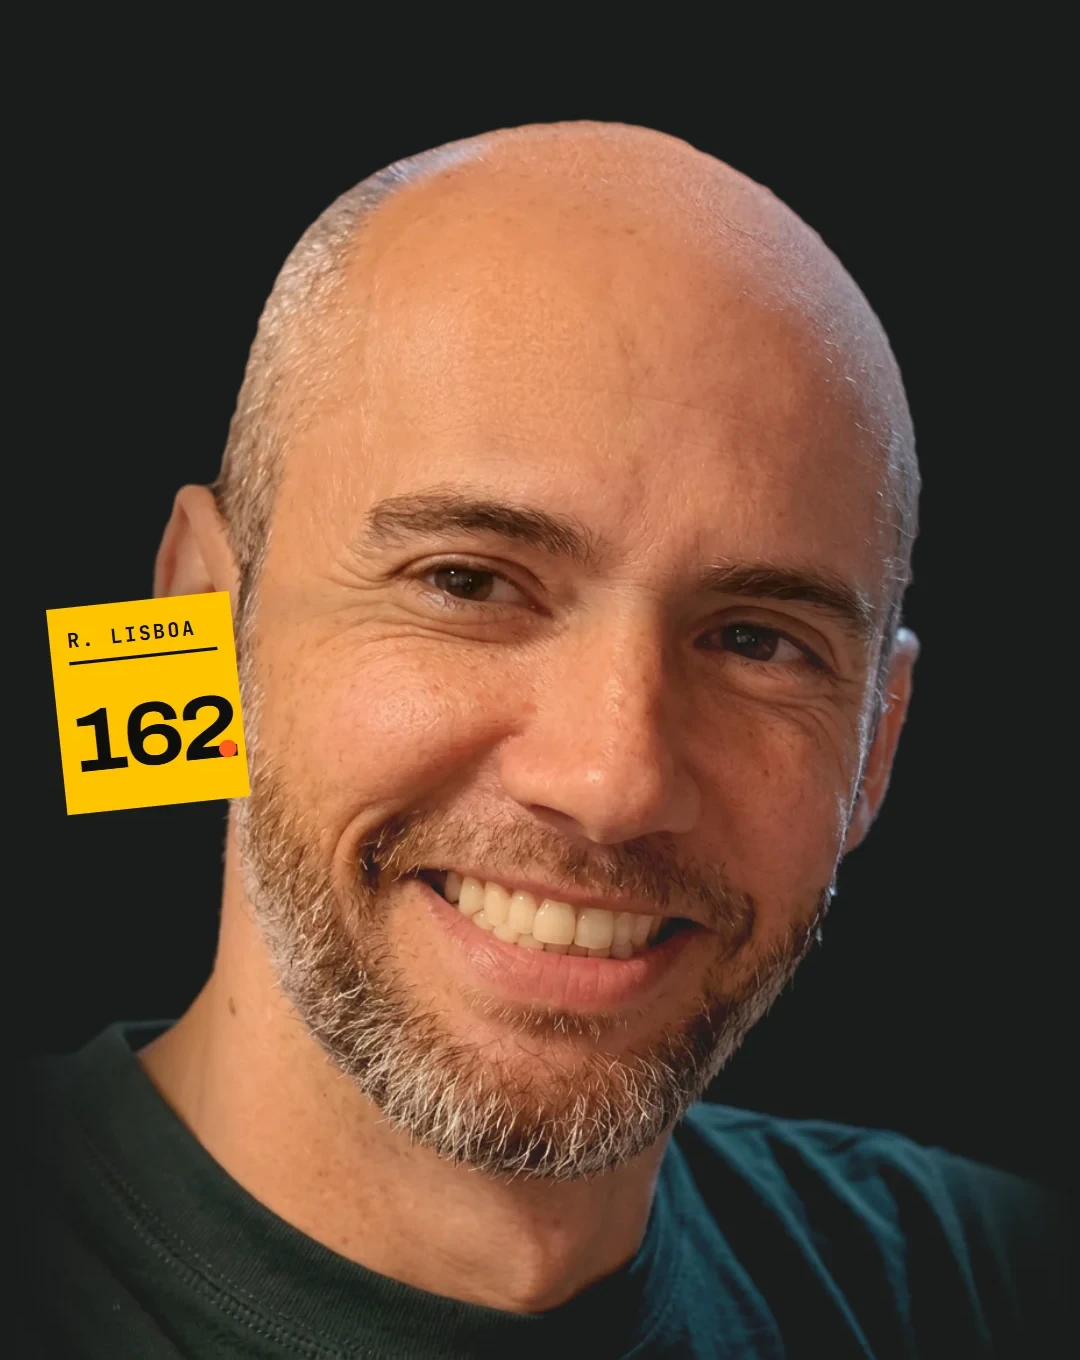
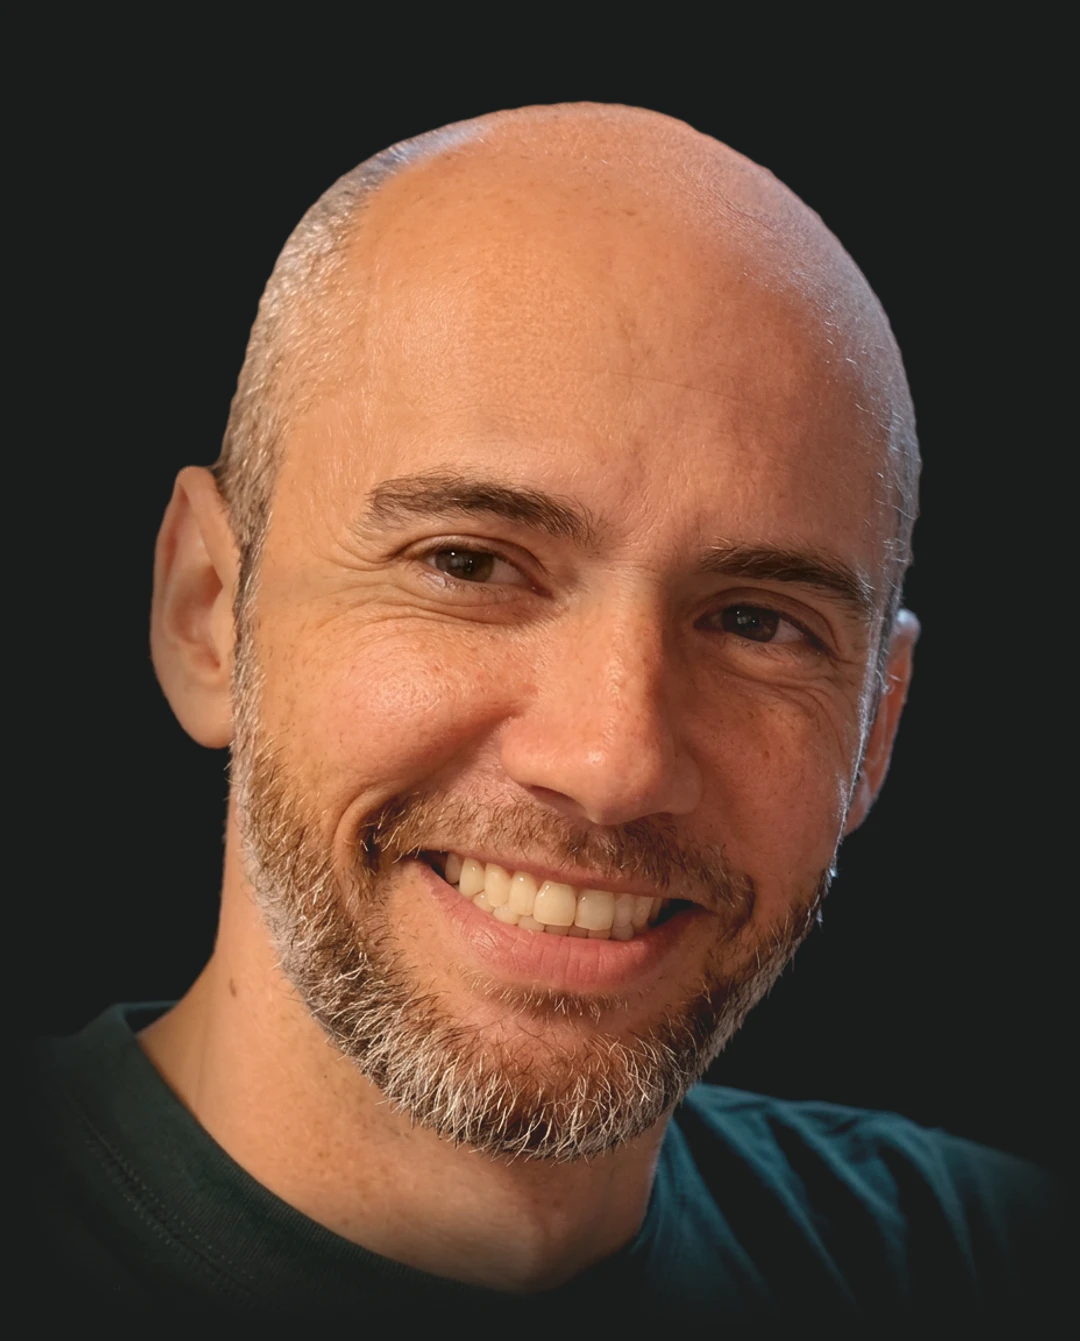
Sobre (celular): sticker real acima do nome, bloco desce até 'Estúdio 162 — desde 2013' no fim da primeira tela; 'Design Gráfico' só ao rolar

diff --git a/app/(site)/sobre/page.tsx b/app/(site)/sobre/page.tsx
@@ -3,7 +3,7 @@ import { site } from "@/site.config";
 import { HeadlineRotator } from "@/components/ui/HeadlineRotator";
 import { TextoRevelar, type Segmento } from "@/components/motion/TextoRevelar";
 import { RetratoFixo } from "@/components/motion/RetratoFixo";
-import { Cruz, SeloAneis, SeloRegua } from "@/components/ui/IdvElementos";
+import { Cruz, SeloAneis, SeloRegua, Sticker162 } from "@/components/ui/IdvElementos";
 import { AneisAnimados } from "@/components/motion/AneisAnimados";
 
 const PARAGRAFOS: Segmento[][] = [
@@ -46,20 +46,25 @@ export const metadata: Metadata = {
 export default function SobrePage() {
   return (
     <div className="relative text-idv-off">
-      {/* Celular: retrato em fluxo normal, com o mesmo ritmo da página de Contato (foto larga, some na base). */}
-      <section aria-label="Rafael Lisboa sorrindo, ao lado do sticker 162" className="relative pt-[65px] md:hidden">
+      {/* Celular: retrato em fluxo normal, com o mesmo ritmo da página de Contato (foto larga, some na base).
+          O bloco sticker + nome + cargo desce até o fim da primeira tela; "Design Gráfico" só aparece ao rolar. */}
+      <section
+        aria-label="Rafael Lisboa sorrindo"
+        className="relative min-h-[calc(100svh-4rem)] pt-[65px] md:hidden"
+      >
         {/* eslint-disable-next-line @next/next/no-img-element */}
         <img
           src="/sobre/sobre-celular.webp"
-          alt="Rafael Lisboa sorrindo, ao lado do sticker 162"
+          alt="Rafael Lisboa sorrindo"
           className="relative block w-full"
           style={{
             WebkitMaskImage: "linear-gradient(to bottom, transparent 0, #000 5%, #000 72%, transparent 100%)",
             maskImage: "linear-gradient(to bottom, transparent 0, #000 5%, #000 72%, transparent 100%)",
           }}
         />
-        <div className="relative -mt-12 px-6">
-          <p className="font-display text-base uppercase tracking-tight text-idv-off">Rafael Lisboa</p>
+        <div className="absolute bottom-2 left-6">
+          <Sticker162 className="h-16 w-auto" />
+          <p className="mt-3 font-display text-base uppercase tracking-tight text-idv-off">Rafael Lisboa</p>
           <p className="mt-1 font-mono text-xs uppercase tracking-[0.12em] text-idv-cinza">Designer e diretor de criação</p>
         </div>
         <div className="pointer-events-none absolute right-0 top-[34%] h-32 w-32 translate-x-1/2">
@@ -92,7 +97,7 @@ export default function SobrePage() {
           <Cruz className="absolute left-6 top-12 h-5 w-5 md:top-32 text-idv-grafite md:left-16" />
           <Cruz className="absolute right-6 top-32 hidden h-5 w-5 text-idv-grafite md:right-16 md:block" />
 
-          <div className="relative mx-auto max-w-5xl px-6 pb-12 pt-16 md:px-16 md:pt-32 lg:px-0">
+          <div className="relative mx-auto max-w-5xl px-6 pb-12 pt-8 md:px-16 md:pt-32 lg:px-0">
             <div id="sobre-intro" className="relative flex flex-col items-center border-b border-idv-grafite pb-24 text-center">
               <p className="font-mono text-xs uppercase tracking-[0.12em] text-idv-cinza">
                 Estúdio 162 — desde <span className="text-idv-amarelo">{site.anoFundacao}</span>
